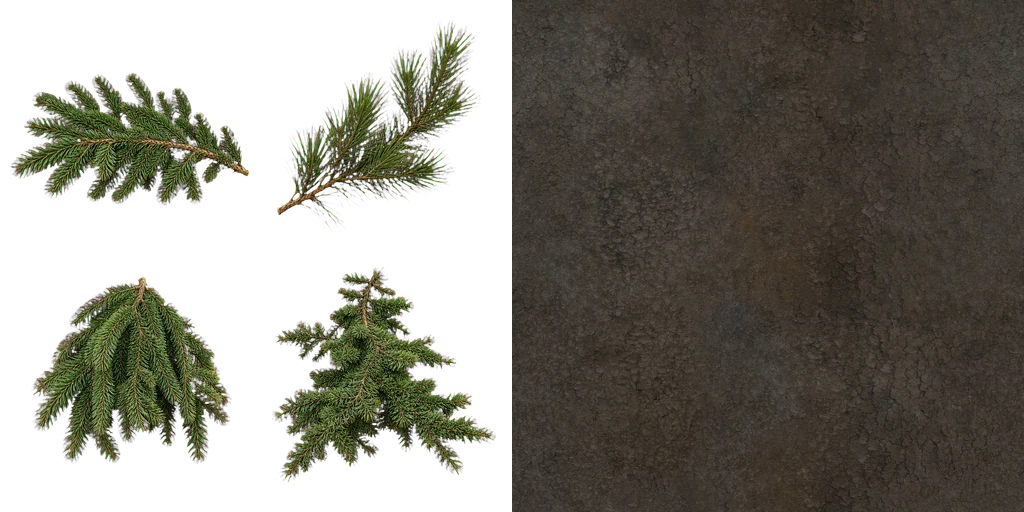
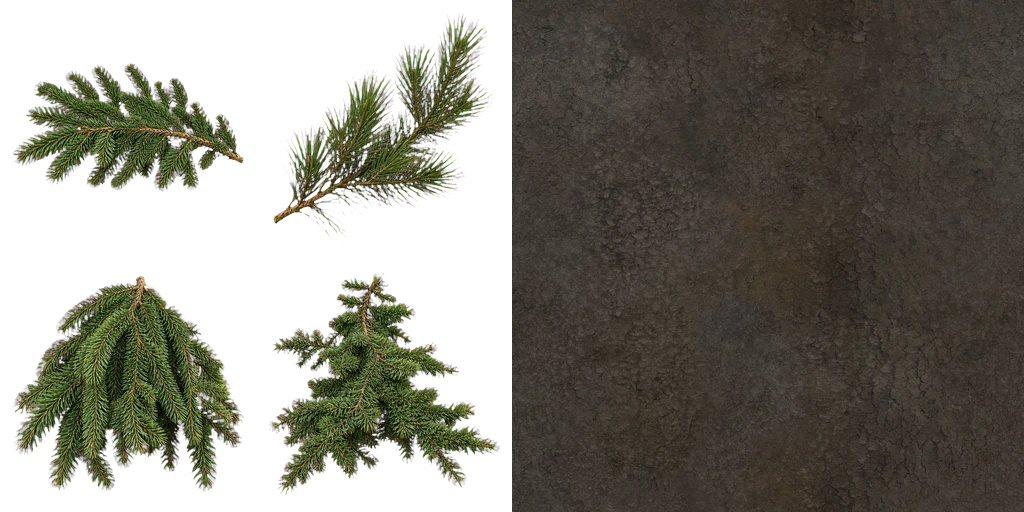
fix(forest): enforce conifer atlas gutters

Changed region(s): [[0.0, 0.5312, 0.5, 0.9688], [0.0, 0.125, 0.25, 0.4062], [0.25, 0.0312, 0.4688, 0.4375]]

diff --git a/src/components/forest-wedding-journey/photoreal/forest-asset-manifest.test.ts b/src/components/forest-wedding-journey/photoreal/forest-asset-manifest.test.ts
@@ -112,8 +112,7 @@ test("conifer color uses four padded alpha branch cards beside opaque bark", asy
       const left = cellX * 256;
       const top = cellY * 256;
       let subjectPixels = 0;
-      let gutterPixels = 0;
-      let transparentGutterPixels = 0;
+      let maximumGutterAlpha = 0;
 
       for (let y = top; y < top + 256; y += 1) {
         for (let x = left; x < left + 256; x += 1) {
@@ -123,16 +122,15 @@ test("conifer color uses four padded alpha branch cards beside opaque bark", asy
             x < left + 8 || x >= left + 248 ||
             y < top + 8 || y >= top + 248;
           if (inGutter) {
-            gutterPixels += 1;
-            if (alpha <= 8) transparentGutterPixels += 1;
+            maximumGutterAlpha = Math.max(maximumGutterAlpha, alpha);
           }
         }
       }
 
       assert.ok(subjectPixels >= 2_500, `branch cell ${cellX},${cellY} is empty`);
       assert.ok(
-        transparentGutterPixels / gutterPixels >= 0.98,
-        `branch cell ${cellX},${cellY} must have a transparent gutter`,
+        maximumGutterAlpha <= 8,
+        `branch cell ${cellX},${cellY} gutter alpha is ${maximumGutterAlpha}`,
       );
     }
   }

diff --git a/src/components/forest-wedding-journey/photoreal/forest-asset-manifest.ts b/src/components/forest-wedding-journey/photoreal/forest-asset-manifest.ts
@@ -91,7 +91,7 @@ const FOREST_PHOTOREAL_COMPRESSED_BYTES: Readonly<Record<string, number>> =
   Object.freeze({
     backdrop: 166_970,
     coniferArm: 49_748,
-    coniferColor: 155_656,
+    coniferColor: 151_924,
     coniferNormal: 99_428,
     groundArm: 84_238,
     groundColor: 99_956,

diff --git a/docs/research/asset-provenance.md b/docs/research/asset-provenance.md
@@ -392,11 +392,16 @@ python3 "${CODEX_HOME:-$HOME/.codex}/skills/.system/imagegen/scripts/remove_chro
 
 The accepted alpha master has SHA-256
[1 lines of base64/hex data omitted]
-The preparation script fits it to the left 512-square conifer region, clears
-hidden RGB in transparent pixels, and applies a deterministic residual-magenta
-cleanup: blue is clamped to green when it exceeds green, and only pink-biased
-red pixels are capped at 1.25 times green. The resulting four cells each keep
-at least an eight-pixel transparent gutter at production resolution.
+The preparation script splits the master into four source cells, finds each
+cell's material bounds at alpha greater than 8, fits each bounded subject
+independently inside a 232-by-232 box, and centers it in its own 256-by-256
+destination cell. Alpha values at or below 8 and their RGB are cleared, as is
+hidden RGB in fully transparent pixels. A deterministic residual-magenta
+cleanup clamps blue to green when it exceeds green and caps only pink-biased
+red pixels at 1.25 times green. The production WebP is decoded and verified to
+have alpha at or below 8 in every pixel of every cell's eight-pixel border; the
+current decoded borders are fully transparent and the nearest material begins
+at least 12 pixels from each relevant cell edge.
 
 ### Poly Haven CC0 sources
 
@@ -447,12 +452,12 @@ processing and uses Sharp with Lanczos3 resize kernels.
[9 lines of base64/hex data omitted]
 
-The seven blocking files total 795,292 compressed bytes and have a conservative
+The seven blocking files total 791,560 compressed bytes and have a conservative
 RGBA-plus-mip decode estimate of 15,379,118 bytes. Including optional wildlife,
-the shared pack totals 857,858 compressed bytes.
+the shared pack totals 854,126 compressed bytes.
